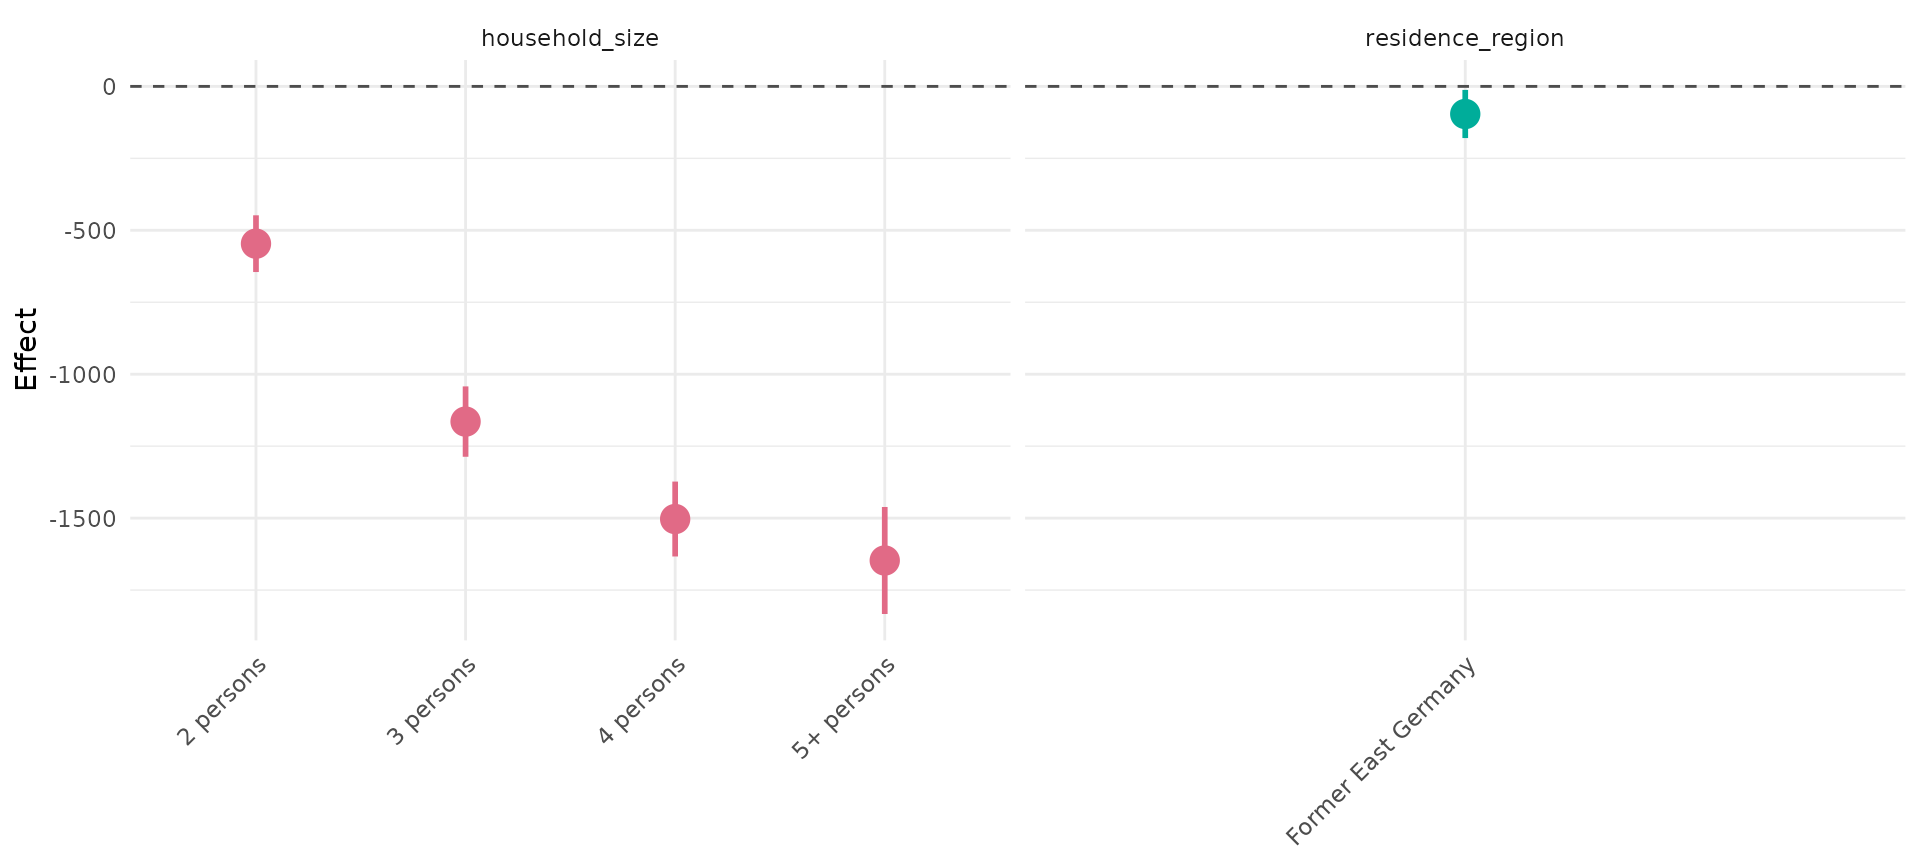
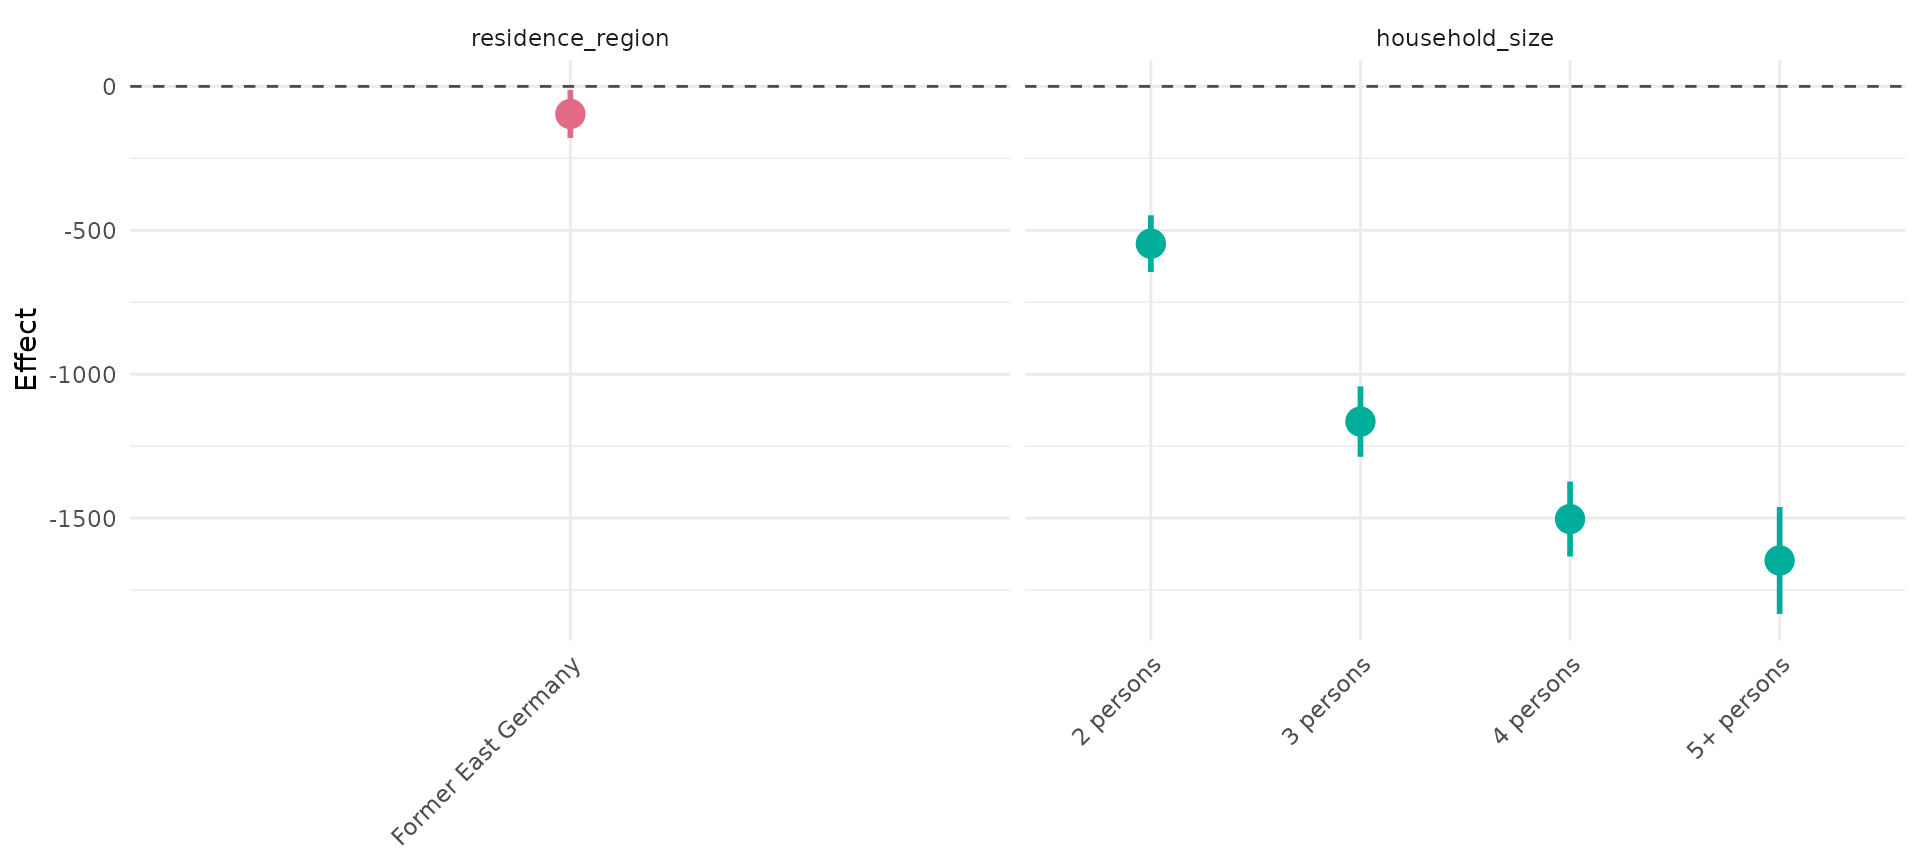
Built site for APCtools: 1.0.1@315a269

diff --git a/reference/plot_linearEffects.html b/reference/plot_linearEffects.html
@@ -60,13 +60,19 @@ gam or bam."><!-- mathjax --><script src="https://cdnjs.cloudflare.com/ajax/libs
 
     <div class="section level2">
     <h2 id="ref-usage">Usage<a class="anchor" aria-label="anchor" href="#ref-usage"></a></h2>
-    <div class="sourceCode"><pre class="sourceCode r"><code><span class="fu">plot_linearEffects</span><span class="op">(</span><span class="va">model</span><span class="op">)</span></code></pre></div>
+    <div class="sourceCode"><pre class="sourceCode r"><code><span class="fu">plot_linearEffects</span><span class="op">(</span><span class="va">model</span>, variables <span class="op">=</span> <span class="cn">NULL</span><span class="op">)</span></code></pre></div>
     </div>
 
     <div class="section level2">
     <h2 id="arguments">Arguments<a class="anchor" aria-label="anchor" href="#arguments"></a></h2>
     <dl><dt>model</dt>
 <dd><p>Model fitted with <code><a href="https://rdrr.io/pkg/mgcv/man/gam.html" class="external-link">gam</a></code> or <code><a href="https://rdrr.io/pkg/mgcv/man/bam.html" class="external-link">bam</a></code>.</p></dd>
+<dt>variables</dt>
+<dd><p>Optional character vector of variable names specifying which
+effects should be plotted. The order of the vector corresponds determines
+the order in the effect plot. If the argument is not specified, all linear
+effects are plotted according to the order of their appearance in the model
+output.</p></dd>
 </dl></div>
     <div class="section level2">
     <h2 id="value">Value<a class="anchor" aria-label="anchor" href="#value"></a></h2>
